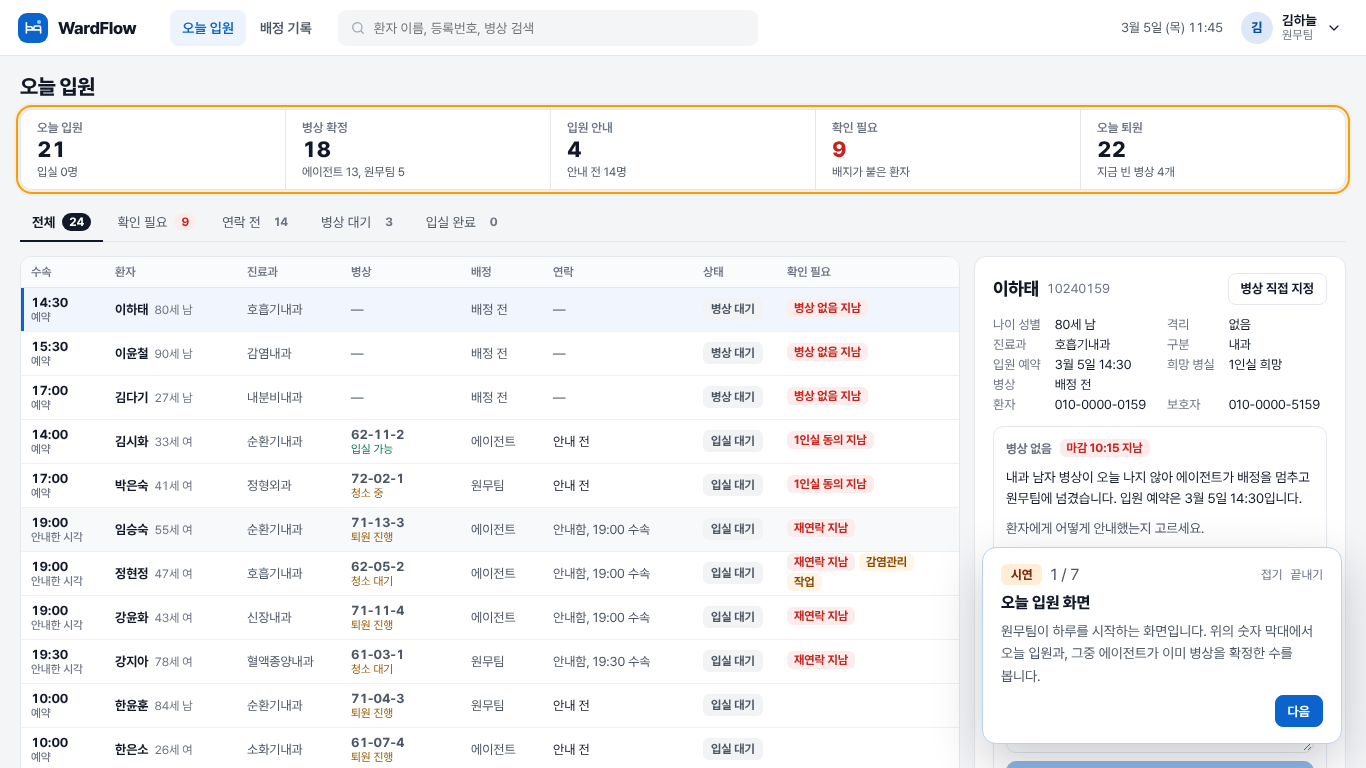
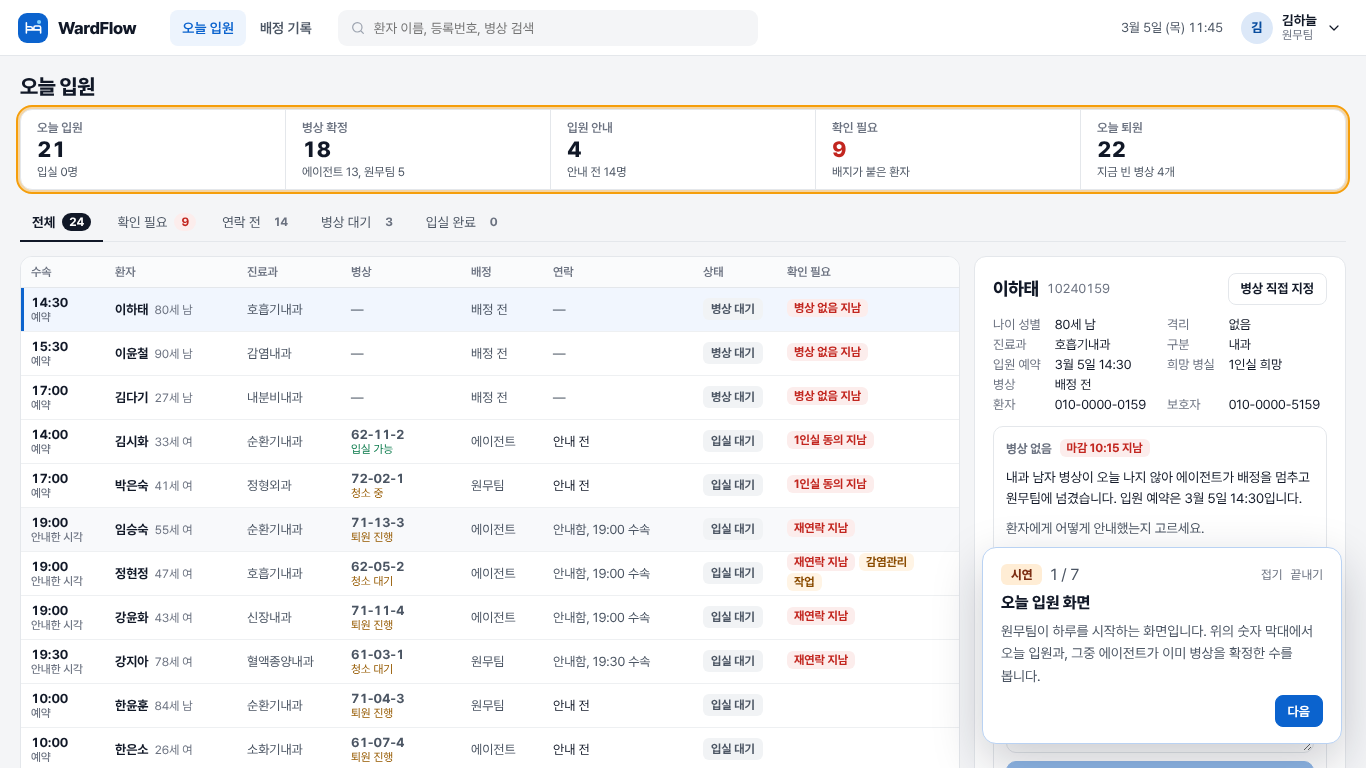
시연 안내: 에이전트가 확정한 평범한 환자를 짚도록
Claude-Session: https://claude.ai/code/session_01LTbFbGTsqcm4pRk2rt9J7f

diff --git a/web/src/parts/Coach.tsx b/web/src/parts/Coach.tsx
@@ -11,7 +11,7 @@ const byText = (sel: string, re: RegExp) => [...document.querySelectorAll(sel)].
 let plainCase = '', recontactCase = ''
 const rowOf = (c: string) => (c ? q(`tr.row[data-case="${c}"]`) : null)
 const plainRow = () => {
-  if (!rowOf(plainCase)) plainCase = ([...document.querySelectorAll('tr.row')].find(r => !r.querySelector('.badge') && /안내 전/.test(r.textContent ?? '')) as HTMLElement | undefined)?.dataset.case ?? ''
+  if (!rowOf(plainCase)) plainCase = ([...document.querySelectorAll('tr.row')].find(r => !r.querySelector('.badge') && /안내 전/.test(r.textContent ?? '') && /에이전트/.test(r.textContent ?? '')) as HTMLElement | undefined)?.dataset.case ?? ''
   return rowOf(plainCase)
 }
 const recontactRow = () => {
